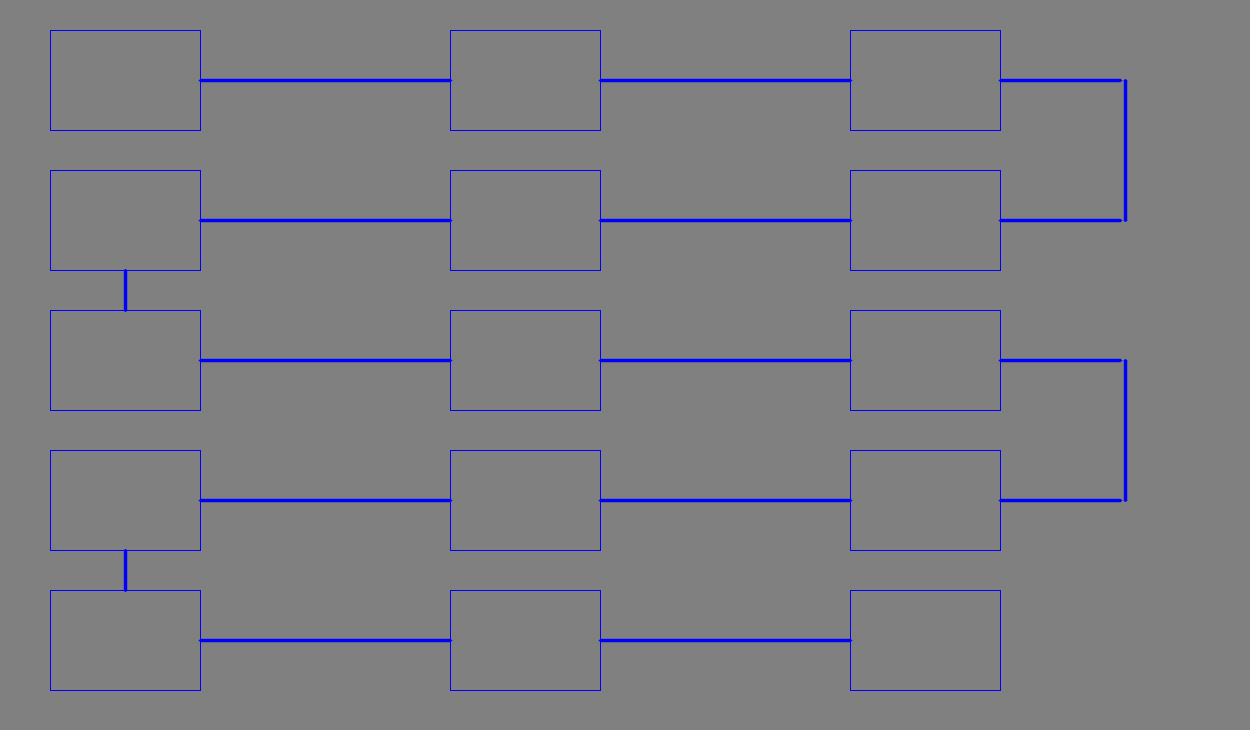
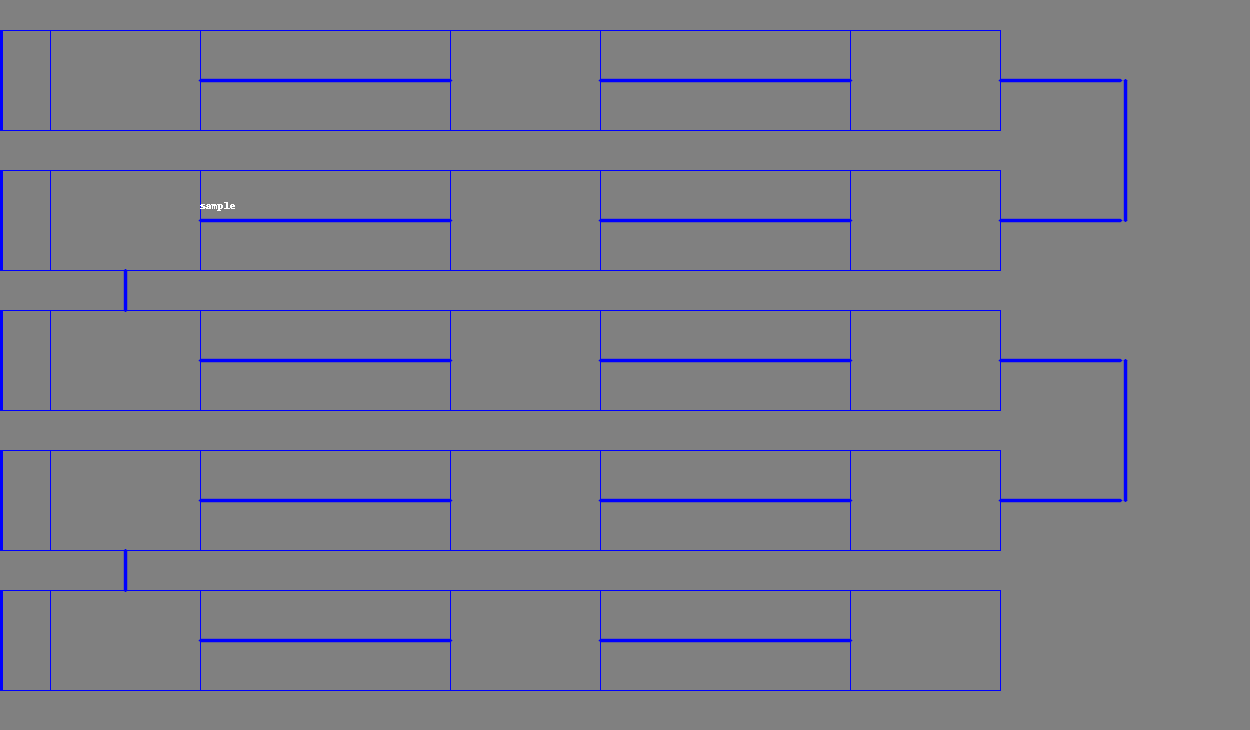
imagecreate2.py  mojiire

Changed region(s): [[0.156, 0.2712, 0.1872, 0.3014], [0.0, 0.4219, 0.0312, 0.4521], [0.0, 0.1507, 0.0312, 0.1808]]

diff --git a/imagecreate2.py b/imagecreate2.py
@@ -1,5 +1,9 @@
 import cv2
 import numpy as np
+from PIL import Image, ImageDraw, ImageFont
+import io
+import sys
+sys.stdout = io.TextIOWrapper(sys.stdout.buffer, encoding='utf-8')
 
 print(cv2.__version__)
 # 3.3.0
@@ -60,5 +64,18 @@ for i in range(2):
 for i in range(2):
     cv2.line(img, (1125, 80 + (i * 280)), (1125, 220 + (i * 280)), (255, 0, 0), thickness=2, lineType=cv2.LINE_AA)
 
-cv2.imwrite('app/static/images/kidoyuki2.png', img)
+cv2.circle(img, (200, 200), 5, (255, 255, 255), thickness=-1)
+cv2.circle(img, (100, 100), 5, (255, 255, 255), thickness=-1)
+cv2.circle(img, (100, 200), 5, (255, 255, 255), thickness=-1)
+
+base = Image.fromarray(img)
+draw = ImageDraw.Draw(base)
+font_path = '/download/SatsukiGendaiMincho-M.ttf'
+font_size = 10
+font = ImageFont.truetype(font_path, font_size)
+draw.text(xy=(100, 200), text='3マス進む', font=font, fill=(255, 255, 255, 10))
+
+base = np.array(base)  # 画像をOpencv形式(ndarray)に変更
+
+cv2.imwrite('app/static/images/kidoyuki3.png', base)
 # True
